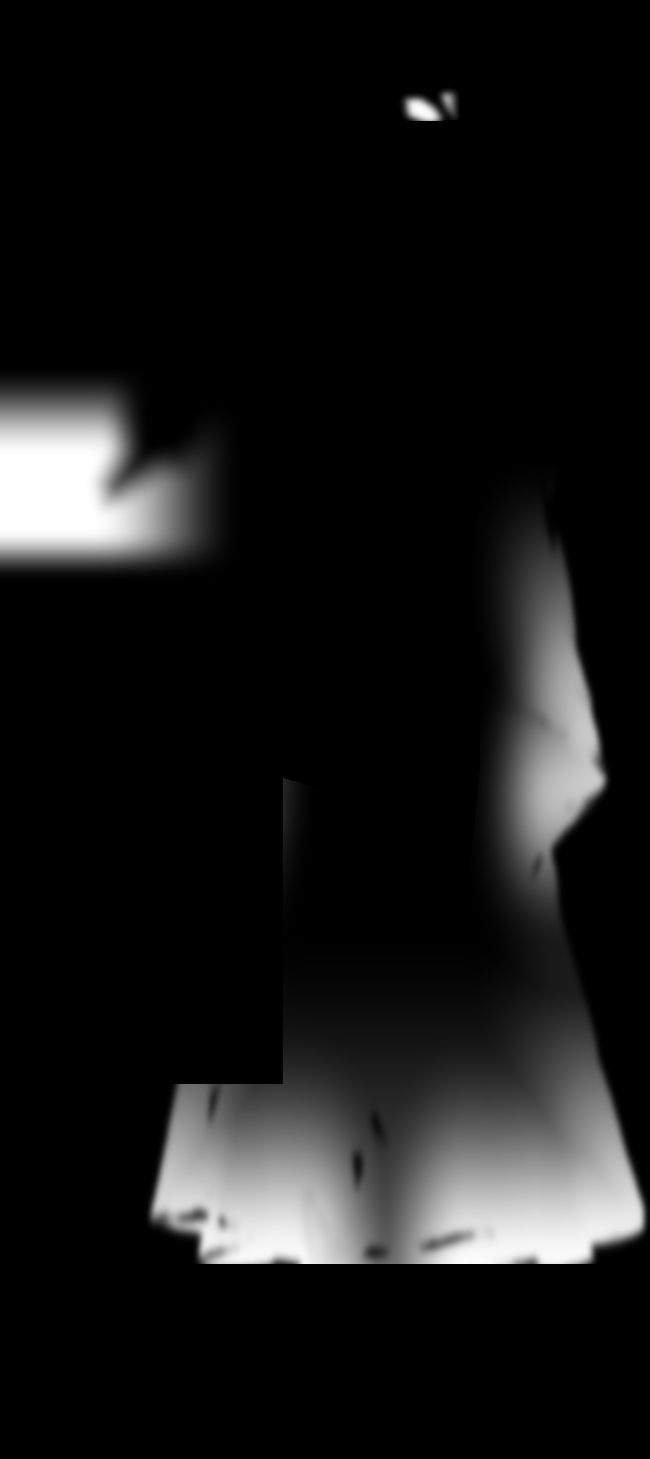
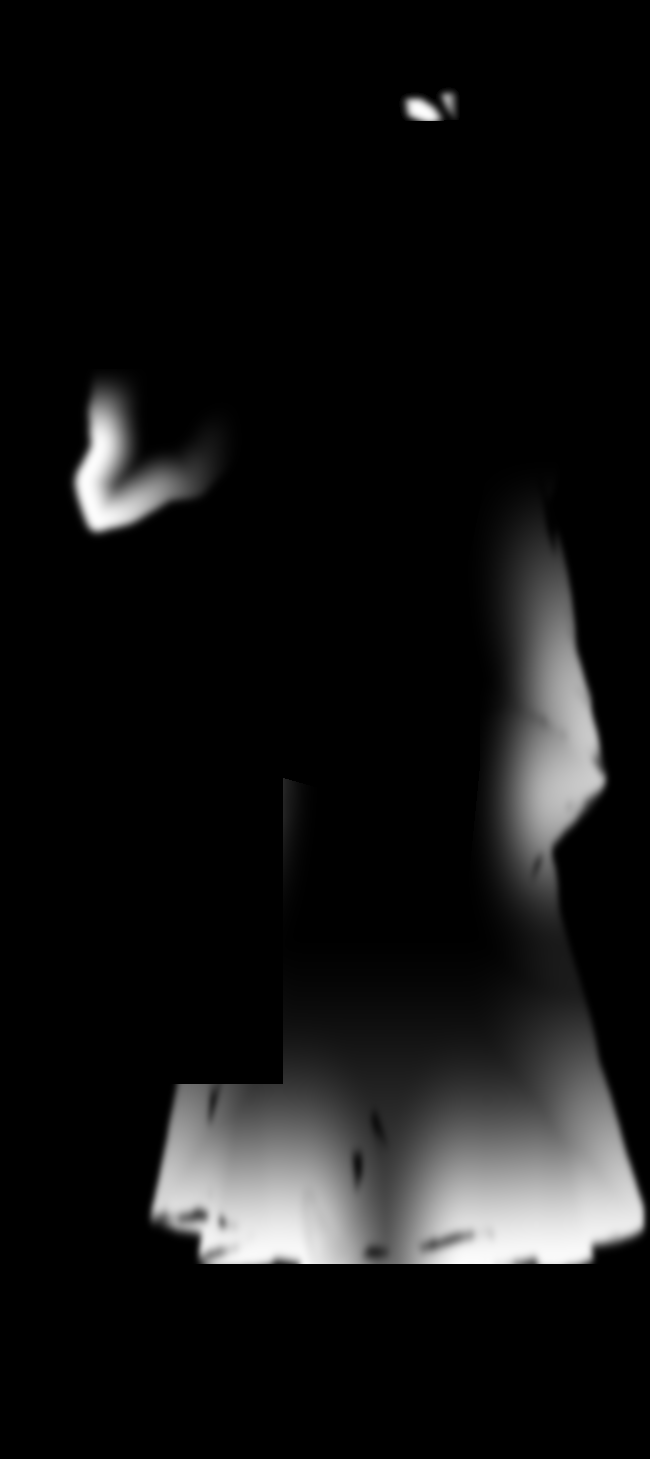
Add files via upload

Changed region(s): [[0.0, 0.2467, 0.3385, 0.401]]

diff --git a/src/wand.js b/src/wand.js
@@ -134,7 +134,7 @@ export function makeNextRoute(stage) {
   };
 }
 
-export function createWand(stage, crane, craneGlow, route, debug, setCastPose) {
+export function createWand(stage, crane, craneGlow, route, debug, showPose) {
   const canvas = document.createElement('canvas');
   canvas.className = 'wand-effects';
   canvas.width = WIDTH;
@@ -143,7 +143,11 @@ export function createWand(stage, crane, craneGlow, route, debug, setCastPose) {
   stage.append(canvas);
   const ctx = canvas.getContext('2d');
   const [white, gold, mint] = WAND.colors;
-  const arc = sample([WAND.idleTip, ...WAND.crescent, WAND.castTip]);
+  const [a, b, c, d] = WAND.crescent;
+  const arc = [
+    ...sample([WAND.idleTip, a, b, WAND.midTip]),
+    ...sample([WAND.midTip, c, d, WAND.castTip]).slice(1),
+  ];
   const arcColor = ctx.createLinearGradient(...WAND.idleTip, ...WAND.castTip);
   arcColor.addColorStop(0, gold);
   arcColor.addColorStop(.44, white);
@@ -154,7 +158,7 @@ export function createWand(stage, crane, craneGlow, route, debug, setCastPose) {
     x: -60 + Math.random() * (WIDTH + 100), y: -60 + Math.random() * (HEIGHT + 100),
   }));
   const swingStart = WAND.chargeTime;
-  const swapTime = swingStart + WAND.swingTime * WAND.swapAt;
+  const midTime = swingStart + WAND.swingTime * WAND.midAt;
   const linkStart = swingStart + WAND.swingTime;
   const flightStart = linkStart + WAND.linkTime;
   const curtainStart = flightStart + WAND.flightTime - WAND.curtainLead;
@@ -165,7 +169,7 @@ export function createWand(stage, crane, craneGlow, route, debug, setCastPose) {
   let departure = null;
   let mirrorLight = 0;
   let gust = 0;
-  let casting = false;
+  let fadeOnly = false;
   let link = sample([WAND.castTip, ...WAND.link, WAND.crane]);
   let flight = defaultFlight;
 
@@ -175,7 +179,8 @@ export function createWand(stage, crane, craneGlow, route, debug, setCastPose) {
     ribbon(ctx, link, 0, 1, 1, .6, gold);
     ribbon(ctx, arc, 0, 1, 1, .45, white);
     for (const [[x, y], label, color] of [
-      [WAND.idleTip, '待机杖尖', gold], [WAND.castTip, '挥杖杖尖', mint], [WAND.crane, '纸鹤原位 / 魔法落点', mint],
+      [WAND.idleTip, '① 待机杖尖', gold], [WAND.midTip, '② 中间杖尖', white],
+      [WAND.castTip, '③ 完成杖尖', mint], [WAND.crane, '纸鹤原位 / 魔法落点', mint],
       [at(defaultFlight, .79), '飞往左上画外', mint],
     ]) {
       dot(ctx, x, y, 5, 1, color, true);
@@ -292,16 +297,17 @@ export function createWand(stage, crane, craneGlow, route, debug, setCastPose) {
     start() {
       if (age !== null || route.inNext) return;
       age = 0;
+      fadeOnly = reduced;
     },
     setReduced(value) {
-      if (value && !reduced && age !== null) {
+      if (value && !fadeOnly && age !== null && !route.inNext) {
         age = 0;
         mirrorLight = 0;
         gust = 0;
         craneGlow.alpha = 0;
         departure = null;
-        casting = false;
-        setCastPose(false);
+        fadeOnly = true;
+        showPose(0);
       }
       reduced = value;
     },
@@ -310,7 +316,7 @@ export function createWand(stage, crane, craneGlow, route, debug, setCastPose) {
       if (age === null || route.inNext) return;
       age += dt;
       ctx.clearRect(0, 0, WIDTH, HEIGHT);
-      if (reduced) {
+      if (fadeOnly) {
         blackout(smooth(age / WAND.reducedFade));
         if (age >= WAND.reducedFade) route.enter();
         return;
@@ -320,32 +326,32 @@ export function createWand(stage, crane, craneGlow, route, debug, setCastPose) {
       const connection = clamp((age - linkStart) / WAND.linkTime);
       const rawFlight = (age - flightStart) / WAND.flightTime;
       mirrorLight = WAND.mirrorLight * smooth(charge) * (1 - smooth(swing * 1.6));
-      const swapAge = age - swapTime;
-      const flashTime = Math.min(.12, WAND.swapFlash);
-      const flash = 1 - smooth(Math.abs(swapAge) / (flashTime / 2));
-      if (!casting && swapAge >= 0) {
-        casting = true;
-        setCastPose(true);
-      }
-      gust = WAND.gustStrength * smooth(1 + swapAge / WAND.gustRise)
-        * (1 - smooth(swapAge / WAND.gustFall));
-      const tip = casting ? WAND.castTip : WAND.idleTip;
-      const tipLight = casting ? .62 * (1 - smooth((age - linkStart) / WAND.tipAfterglow))
-        : smooth(charge) * (1 - .46 * swing);
-      halo(ctx, ...tip, 32 + 12 * swing, tipLight * .78, casting ? mint : gold);
+      const midAge = age - midTime;
+      const pose = age >= linkStart ? 2 : age >= midTime ? 1 : 0;
+      const poseAge = pose === 2 ? age - linkStart : midAge;
+      const blend = pose ? smooth(poseAge / WAND.poseFade) : 1;
+      const ghost = poseAge < WAND.poseFade
+        ? mix(1, WAND.ghostOpacity, blend)
+        : WAND.ghostOpacity * (1 - smooth((poseAge - WAND.poseFade) / (WAND.ghostTime - WAND.poseFade)));
+      showPose(pose, pose ? ghost : 0, blend, age >= swingStart);
+      gust = WAND.gustStrength * smooth(1 + midAge / WAND.gustRise)
+        * (1 - smooth(midAge / WAND.gustFall));
+
+      // At exactly midTime the arc head is at the shared Bézier knot.
+      const progress = age < midTime
+        ? .5 * smooth(swing) / smooth(WAND.midAt)
+        : .5 + .5 * (smooth(swing) - smooth(WAND.midAt)) / (1 - smooth(WAND.midAt));
+      const tip = at(arc, progress);
+      const tipLight = age < swingStart ? smooth(charge)
+        : 1 - smooth((age - linkStart) / WAND.tipAfterglow);
+      halo(ctx, ...tip, 32 + 12 * swing, tipLight * .78, swing < WAND.midAt ? gold : mint);
       dot(ctx, ...tip, 5, tipLight, white, true);
       if (swing > 0) {
-        const arcLight = (.75 + .25 * flash) * (1 - smooth((age - linkStart) / WAND.linkTime));
-        crescent(smooth(swing), arcLight);
-      }
-      if (flash > 0) {
-        const [x, y] = at(arc, .5);
-        halo(ctx, x, y, 154, flash * .66, white);
-        halo(ctx, 752, 432, 250, flash * .41, mint);
-        dot(ctx, x, y, 15, flash, white, true);
+        const arcLight = 1 - smooth((age - linkStart) / WAND.linkTime);
+        crescent(progress, arcLight);
       }
       if (!departure && connection > 0) link = sample([WAND.castTip, ...WAND.link, [crane.x, crane.y]]);
-      paintLink(smooth(connection), 1 - smooth(rawFlight / .66));
+      paintLink(smooth(connection), 1 - smooth((age - flightStart) / WAND.linkFade));
       if (rawFlight >= 0) fly(rawFlight);
       drawDebug();
       if (age >= curtainStart) curtain(clamp((age - curtainStart) / WAND.curtainTime));

diff --git a/src/main.js b/src/main.js
@@ -22,6 +22,7 @@ const canInteract = () => !route.inNext && !wand?.active;
 
 const assetUrls = {
   draco: new URL('./assets/draco.png', import.meta.url).href,
+  'draco-mid': new URL('./assets/draco-mid.png', import.meta.url).href,
   'draco-cast': new URL('./assets/draco-cast.png', import.meta.url).href,
   'mirror-glass': new URL('./assets/mirror-glass.png', import.meta.url).href,
   'mirror-frame': new URL('./assets/mirror-frame.png', import.meta.url).href,
@@ -108,9 +109,12 @@ const layerTints = {
   'ferret-raised': 0xe5e5e5,
 };
 
+const poseNames = ['idle', 'mid', 'cast'];
+const poseLayers = ['draco', 'draco-mid', 'draco-cast'];
+
 function pickLayer(layer) {
   if (!canInteract()) return;
-  if (layer === 'draco' || layer === 'draco-cast') wand?.start();
+  if (poseLayers.includes(layer)) wand?.start();
   art.dispatchEvent(new CustomEvent('poster:pick', { bubbles: true, detail: { layer } }));
 }
 
@@ -153,29 +157,42 @@ async function renderPoster() {
     makeReflection('mirror-reflection-right', [852, 474, 925, 456, 918, 516, 848, 530]),
   ];
   const debug = debugView === 'wind';
-  const [idleWeights, castWeights] = await Promise.all([
-    Assets.load(new URL('./assets/draco-wind-weights.png', import.meta.url).href),
-    Assets.load(new URL('./assets/draco-cast-wind-weights.png', import.meta.url).href),
-  ]);
-  const wind = createWind(sprites, lighting.bounce, { webgl, debug, idleWeights, castWeights });
-  const idle = wind.layers.draco;
-  const casting = wind.layers['draco-cast'];
+  const weightUrls = [
+    new URL('./assets/draco-wind-weights.png', import.meta.url).href,
+    new URL('./assets/draco-mid-wind-weights.png', import.meta.url).href,
+    new URL('./assets/draco-cast-wind-weights.png', import.meta.url).href,
+  ];
+  const weights = await Promise.all(weightUrls.map(url => Assets.load(url)));
+  const weightTextures = Object.fromEntries(poseLayers.map((name, index) => [name, weights[index]]));
+  const wind = createWind(sprites, lighting.bounce, { webgl, debug, weightTextures });
   const frame = sprites['mirror-frame'];
   const poseDebug = debugView === 'pose';
   const poses = new Container({ label: 'draco-poses' });
-  poses.addChild(idle, casting, wind.bounce);
-  function setCastPose(active) {
-    idle.visible = !active || poseDebug;
-    casting.visible = active || poseDebug;
-    wind.bounce.renderable = !active && !poseDebug;
-    idle.alpha = poseDebug ? .52 : 1;
-    casting.alpha = poseDebug ? .58 : 1;
-    idle.eventMode = active ? 'none' : (webgl ? 'static' : 'passive');
-    casting.eventMode = active ? (webgl ? 'static' : 'passive') : 'none';
-    // Preserve the original layering at rest and clear the frame/foliage for the cast.
-    if (active) layers.setChildIndex(poses, layers.getChildIndex(crane) - 1);
-    else layers.setChildIndex(poses, layers.getChildIndex(frame) + 2);
-    stage.dataset.pose = active ? 'cast' : 'idle';
+  const figures = poseLayers.map(name => wind.layers[name]);
+  poses.addChild(...figures, wind.bounce);
+  let currentPose = -1;
+  let elevated = null;
+  function showPose(index, previousAlpha = 0, currentAlpha = 1, spellLayer = false) {
+    figures.forEach((figure, i) => {
+      const alpha = i === index ? currentAlpha : i === index - 1 ? previousAlpha : 0;
+      figure.alpha = poseDebug ? .5 : alpha;
+      figure.visible = poseDebug || alpha > 0;
+      if (currentPose !== index) {
+        figure.eventMode = i === index ? (webgl ? 'static' : 'passive') : 'none';
+      }
+    });
+    if (currentPose !== index) {
+      currentPose = index;
+      stage.dataset.pose = poseNames[index];
+    }
+    wind.bounce.renderable = index === 0 && !poseDebug;
+    if (elevated !== spellLayer) {
+      elevated = spellLayer;
+      // The casting pose sits in front of the mirror and foliage; the crane
+      // stays in front of the characters. Restore the idle ordering afterward.
+      const destination = spellLayer ? layers.getChildIndex(crane) - 1 : layers.getChildIndex(frame) + 2;
+      layers.setChildIndex(poses, destination);
+    }
   }
   const crane = makeCraneRig(wind.layers['paper-crane'], placements['paper-crane']);
   const craneArtwork = wind.layers['paper-crane'];
@@ -200,25 +217,25 @@ async function renderPoster() {
     crane,
   );
 
-  setCastPose(false);
+  showPose(0);
   if (poseDebug) {
     const caption = document.createElement('p');
     caption.className = 'pose-debug-caption';
-    caption.textContent = '姿势对齐 · 待机与挥杖叠加（静止）';
+    caption.textContent = '姿势对齐 · 待机、中间、完成叠加';
     stage.append(caption);
   }
   app.render();
   await typesetTitle();
   const intro = makeIntro(stage);
   const apple = document.querySelector('#green-apple');
-  wand = createWand(stage, crane, craneGlow, route, debugView === 'wand', setCastPose);
+  wand = createWand(stage, crane, craneGlow, route, debugView === 'wand', showPose);
   function isClickable(x, y) {
     const box = app.canvas.getBoundingClientRect();
     if (x < box.left || x >= box.right || y < box.top || y >= box.bottom) return false;
     const target = app.renderer.events.rootBoundary.hitTest(
       (x - box.left) * WIDTH / box.width, (y - box.top) * HEIGHT / box.height,
     );
-    return ['draco', 'draco-wind', 'draco-cast', 'draco-cast-wind', 'ferret'].includes(target?.label);
+    return target?.label === 'ferret' || poseLayers.includes(target?.label?.replace(/-wind$/, ''));
   }
   const interactions = createInteractions(stage, apple, isClickable, () => pickLayer('green-apple'), canInteract);
   startEnvironment(app, { glass, lighting, reflections, crane, wind, intro, interactions, ferret, wand, poseDebug });

diff --git a/src/motion-config.js b/src/motion-config.js
@@ -90,20 +90,24 @@ export const FERRET = {
 
 // 挥杖动画。坐标以 1600 × 1000 舞台左上角为原点，时间单位为秒。
 export const WAND = {
-  idleTip: [678.88, 620.64],               // 待机杖尖：抠图后原图像素 (0, 1048) 的中心
-  castTip: [632.89, 286.59],               // 挥杖杖尖：抠图后原图像素 (3, 207) 的中心
-  crane: [427, 278.5],                     // 千纸鹤原位的中心，施法时会追踪实际漂浮位置
-  crescent: [[548, 549], [505, 356]],     // 新月光痕的两个控制点，两端使用上面的杖尖
-  link: [[568, 232], [500, 239]],           // 杖尖到纸鹤的两个曲线控制点
-  flight: [[366, 245], [228, 298], [-135, -110]], // 飞行的两个控制点和画外终点
-  chargeTime: .30,                         // 杖尖蓄势
-  swingTime: .70,                          // 挥杖光痕
-  swapAt: .50,                            // 光弧画到一半时切换姿势
-  swapFlash: .10,                         // 换姿势的闪光总时长，不超过 0.12 秒
-  gustRise: .11,                          // 阵风在切换姿势时达到峰值
+  idleTip: [679.29, 621.03],              // 待机杖尖，透明图像素 (1, 1049)
+  midTip: [613.00, 443.08],               // 中间杖尖，透明图像素 (4, 601)
+  castTip: [632.48, 287.38],              // 完成杖尖，透明图像素 (2, 209)
+  crane: [427, 278.5],                    // 千纸鹤静止时的中心，连接时追踪实际位置
+  crescent: [[645, 575], [617, 498], [609, 388], [616, 334]], // 两段光弧的控制点，中间两点共用切线
+  link: [[568, 232], [500, 239]],          // 杖尖到纸鹤的两个曲线控制点
+  flight: [[366, 245], [228, 298], [-135, -110]], // 纸鹤飞行的两个控制点和画外终点
+  chargeTime: .30,                        // 杖尖蓄势
+  swingTime: .80,                         // 挥杖光痕
+  midAt: .54,                             // 挥杖时长的此处，弧头到达中间杖尖
+  poseFade: .08,                          // 每次换姿势的交叉淡入时长
+  ghostTime: .15,                         // 残影从换姿势起计，完全消失的时长
+  ghostOpacity: .25,                      // 交叉淡入末端保留的残影透明度
+  gustRise: .11,                          // 阵风在中间姿势切换时达到峰值
   gustFall: .96,                          // 阵风回落时长
   tipAfterglow: .35,                       // 挥杖杖尖在连接阶段的余光时长
   linkTime: .80,                           // 魔法连接飞到千纸鹤
+  linkFade: .99,                          // 起飞后连接光带淡出的时长
   flightTime: 1.50,                        // 千纸鹤飞离画面
   curtainTime: 1.40,                       // 星尘铺开并淡到黑
   curtainLead: .20,                        // 在纸鹤飞行结束前多久开始光幕

diff --git a/src/wind.js b/src/wind.js
@@ -2,7 +2,7 @@ import { Container, Mesh, MeshGeometry, Sprite, Texture } from 'pixi.js';
 
 import { INTRO, WIND } from './motion-config.js';
 
-const LAYERS = ['oak-tree', 'oak-overhang', 'draco', 'draco-cast', 'paper-crane'];
+const LAYERS = ['oak-tree', 'oak-overhang', 'draco', 'draco-mid', 'draco-cast', 'paper-crane'];
 // Shared world grid: both oak meshes use the same triangles even in their overlap.
 const OAK_GRID = { x: 566, y: 53, width: 984, height: 760, columns: 30, rows: 24 };
 
@@ -156,11 +156,14 @@ function meshAlphaHit(geometry, sprite, width, height) {
 
 function makeLayer(sprite, { webgl, debug, weights, idleX }) {
   const oak = sprite.label.startsWith('oak-');
-  const extraColumns = sprite.label === 'draco-cast' ? 5 : 0;
+  // Extend the grid to the left of the idle crop while keeping the shared
+  // body vertices at the same stage positions and wind phase.
+  const extraWidth = weights ? Math.max(0, idleX - sprite.x) : 0;
+  const extraColumns = Math.round(extraWidth / ((sprite.width - extraWidth) / 23));
   const bounds = oak ? OAK_GRID : {
     x: sprite.x, y: sprite.y, width: sprite.width, height: sprite.height,
     columns: weights ? 23 + extraColumns : 10, rows: weights ? 35 : 8,
-    extraColumns, extraWidth: extraColumns ? idleX - sprite.x : 0,
+    extraColumns, extraWidth,
   };
   const grid = buildGrid(sprite, bounds, oak, weights);
   const layer = new Container({ label: sprite.label + '-wind', x: bounds.x, y: bounds.y });
@@ -280,8 +283,9 @@ function makeGusts() {
   };
 }
 
-export function createWind(sprites, bounce, { webgl, idleWeights, castWeights, debug }) {
-  const weightsByPose = { draco: readWeights(idleWeights), 'draco-cast': readWeights(castWeights) };
+export function createWind(sprites, bounce, { webgl, weightTextures, debug }) {
+  const weightsByPose = Object.fromEntries(Object.entries(weightTextures)
+    .map(([name, texture]) => [name, readWeights(texture)]));
   const idleX = sprites.draco.x;
   const affected = Object.fromEntries(LAYERS.map(name => [
     name, makeLayer(sprites[name], { webgl, debug, weights: weightsByPose[name], idleX }),
@@ -300,7 +304,9 @@ export function createWind(sprites, bounce, { webgl, idleWeights, castWeights, d
     bounce: movingBounce,
     update(time, introTime, castGust = 0) {
       const arrivals = gusts(time);
-      for (const { geometry, rest, moving, shifts, constraints } of meshes) {
+      for (const { layer, geometry, rest, moving, shifts, constraints } of meshes) {
+        // Newly visible poses get the current absolute time on their first frame.
+        if (!layer.visible) continue;
         // Both tree layers use identical positions, including the anti-fold correction.
         if (geometry === oakOverlay) {
           geometry.positions.set(affected['oak-tree'].geometry.positions);
